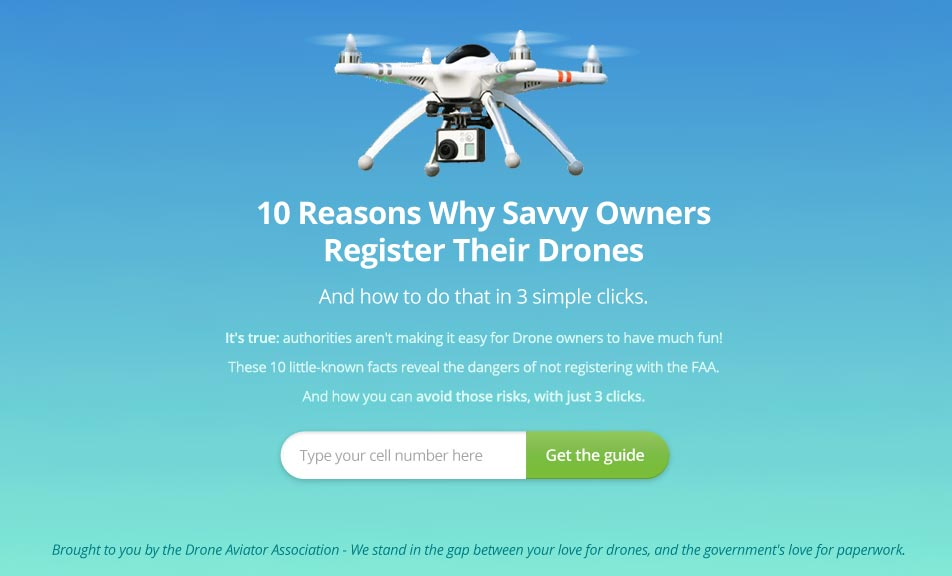
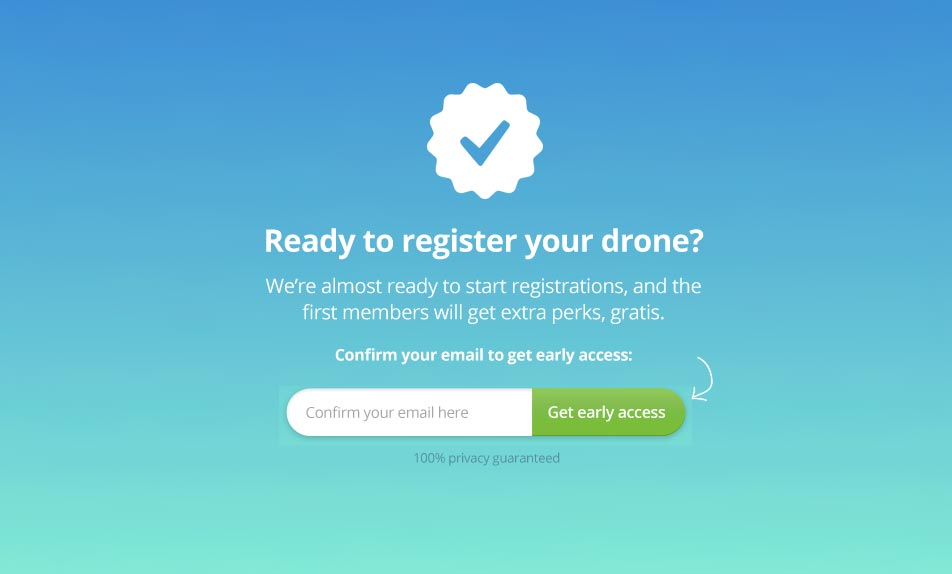
Added Done and Registration success pages

Changed region(s): [[0.2437, 0.0296, 0.7616, 0.8589], [0.0609, 0.9477, 0.9443, 0.9774]]

diff --git a/droneaviator/css/main.css b/droneaviator/css/main.css
@@ -1,1 +1,1 @@
-/*! normalize.css v3.0.1 | MIT License | git.io/normalize */html{font-family:sans-serif;-ms-text-size-adjust:100%;-webkit-text-size-adjust:100%}body{margin:0}article,aside,details,figcaption,figure,footer,header,hgroup,main,nav,section,summary{display:block}audio,canvas,progress,video{display:inline-block;vertical-align:baseline}audio:not([controls]){display:none;height:0}[hidden],template{display:none}a{background:transparent}a:active,a:hover{outline:0}abbr[title]{border-bottom:1px dotted}b,strong{font-weight:bold}dfn{font-style:italic}h1{font-size:2em;margin:.67em 0}mark{background:#ff0;color:#000}small{font-size:80%}sub,sup{font-size:75%;line-height:0;position:relative;vertical-align:baseline}sup{top:-0.5em}sub{bottom:-0.25em}img{border:0}svg:not(:root){overflow:hidden}figure{margin:1em 40px}hr{-moz-box-sizing:content-box;box-sizing:content-box;height:0}pre{overflow:auto}code,kbd,pre,samp{font-family:monospace,monospace;font-size:1em}button,input,optgroup,select,textarea{color:inherit;font:inherit;margin:0}button{overflow:visible}button,select{text-transform:none}button,html input[type="button"],input[type="reset"],input[type="submit"]{-webkit-appearance:button;cursor:pointer}button[disabled],html input[disabled]{cursor:default}button::-moz-focus-inner,input::-moz-focus-inner{border:0;padding:0}input{line-height:normal}input[type="checkbox"],input[type="radio"]{box-sizing:border-box;padding:0;vertical-align:top}input[type="number"]::-webkit-inner-spin-button,input[type="number"]::-webkit-outer-spin-button{height:auto}input[type="search"]{-webkit-appearance:textfield;-moz-box-sizing:content-box;-webkit-box-sizing:content-box;box-sizing:content-box}input[type="search"]::-webkit-search-cancel-button,input[type="search"]::-webkit-search-decoration{-webkit-appearance:none}fieldset{border:1px solid #c0c0c0;margin:0 2px;padding:.35em .625em .75em}legend{border:0;padding:0}textarea{overflow:auto}optgroup{font-weight:bold}table{border-collapse:collapse;border-spacing:0}td,th{padding:0}html{box-sizing:border-box}*,*::after,*::before{box-sizing:inherit}button,input[type="button"],input[type="reset"],input[type="submit"]{appearance:none;background-color:#414141;border:0;border-radius:3px;color:#fff;cursor:pointer;display:inline-block;font-family:"Open Sans",sans-serif;font-size:1em;-webkit-font-smoothing:antialiased;font-weight:600;line-height:1;padding:.75em 1.5em;text-decoration:none;transition:background-color 150ms ease;user-select:none;vertical-align:middle;white-space:nowrap}button:hover,button:focus,input[type="button"]:hover,input[type="button"]:focus,input[type="reset"]:hover,input[type="reset"]:focus,input[type="submit"]:hover,input[type="submit"]:focus{background-color:#343434;color:#fff}button:disabled,input[type="button"]:disabled,input[type="reset"]:disabled,input[type="submit"]:disabled{cursor:not-allowed;opacity:0.5}button:disabled:hover,input[type="button"]:disabled:hover,input[type="reset"]:disabled:hover,input[type="submit"]:disabled:hover{background-color:#414141}.button{border-radius:50px;padding:.5em 1.5em;min-width:75px;display:inline-block;line-height:1;text-align:center;margin-bottom:.75em;margin-top:.5em;color:#fff;font-weight:600;text-decoration:none;white-space:nowrap}.buttons-textual .button{padding:.85em 1.5em}.button.button-half{float:left;display:block;margin-right:2.35765%;width:48.82117%}.button.button-half:last-child{margin-right:0}.button.button-half:nth-child(2n){margin-right:0}.button.button-full{width:100%}.button-mobile{display:inline-block;padding:1em 1.5em 1em 4em;border-radius:100px;color:white;font-size:.8em;text-decoration:none;background:-moz-linear-gradient(top, rgba(0,117,173,0.85) 0%, rgba(0,127,173,0.5) 100%);background:-webkit-linear-gradient(top, rgba(0,117,173,0.85) 0%, rgba(0,127,173,0.5) 100%);background:linear-gradient(to bottom, rgba(0,117,173,0.85) 0%, rgba(0,127,173,0.5) 100%);filter:progid:DXImageTransform.Microsoft.gradient( startColorstr='#d90075ad', endColorstr='#80007fad',GradientType=0 );background-blend-mode:overlay;position:relative;box-shadow:0 1px 5px rgba(0,0,0,0.2)}@media screen and (max-width: 320px){.button-mobile{font-size:.7em}}.button-mobile:before{content:url(../images/phone.png);padding:1em 1.5em;position:absolute;left:0;top:0;width:3.5em;height:100%;display:block;border-radius:50px 0 0 50px}fieldset{background-color:transparent;border:0;margin:0;padding:0}legend{font-weight:600;margin-bottom:.375em;padding:0}label{display:block;font-weight:600;margin-bottom:.375em}input,select,textarea{display:block;font-family:"Open Sans",sans-serif;font-size:1em}input[type="color"],input[type="date"],input[type="datetime"],input[type="datetime-local"],input[type="email"],input[type="month"],input[type="number"],input[type="password"],input[type="search"],input[type="tel"],input[type="text"],input[type="time"],input[type="url"],input[type="week"],input:not([type]),textarea,select[multiple]{background-color:#fff;border:1px solid #ddd;border-radius:3px;box-shadow:inset 0 1px 3px rgba(0,0,0,0.06);box-sizing:border-box;margin-bottom:.75em;padding:.5em;transition:border-color 150ms ease;width:100%}input[type="color"]:hover,input[type="date"]:hover,input[type="datetime"]:hover,input[type="datetime-local"]:hover,input[type="email"]:hover,input[type="month"]:hover,input[type="number"]:hover,input[type="password"]:hover,input[type="search"]:hover,input[type="tel"]:hover,input[type="text"]:hover,input[type="time"]:hover,input[type="url"]:hover,input[type="week"]:hover,input:not([type]):hover,textarea:hover,select[multiple]:hover{border-color:#b1b1b1}input[type="color"]:focus,input[type="date"]:focus,input[type="datetime"]:focus,input[type="datetime-local"]:focus,input[type="email"]:focus,input[type="month"]:focus,input[type="number"]:focus,input[type="password"]:focus,input[type="search"]:focus,input[type="tel"]:focus,input[type="text"]:focus,input[type="time"]:focus,input[type="url"]:focus,input[type="week"]:focus,input:not([type]):focus,textarea:focus,select[multiple]:focus{border-color:#414141;outline:none}input[type="color"]:disabled,input[type="date"]:disabled,input[type="datetime"]:disabled,input[type="datetime-local"]:disabled,input[type="email"]:disabled,input[type="month"]:disabled,input[type="number"]:disabled,input[type="password"]:disabled,input[type="search"]:disabled,input[type="tel"]:disabled,input[type="text"]:disabled,input[type="time"]:disabled,input[type="url"]:disabled,input[type="week"]:disabled,input:not([type]):disabled,textarea:disabled,select[multiple]:disabled{background-color:#f2f2f2;cursor:not-allowed}input[type="color"]:disabled:hover,input[type="date"]:disabled:hover,input[type="datetime"]:disabled:hover,input[type="datetime-local"]:disabled:hover,input[type="email"]:disabled:hover,input[type="month"]:disabled:hover,input[type="number"]:disabled:hover,input[type="password"]:disabled:hover,input[type="search"]:disabled:hover,input[type="tel"]:disabled:hover,input[type="text"]:disabled:hover,input[type="time"]:disabled:hover,input[type="url"]:disabled:hover,input[type="week"]:disabled:hover,input:not([type]):disabled:hover,textarea:disabled:hover,select[multiple]:disabled:hover{border:1px solid #ddd}input[type="color"]::placeholder,input[type="date"]::placeholder,input[type="datetime"]::placeholder,input[type="datetime-local"]::placeholder,input[type="email"]::placeholder,input[type="month"]::placeholder,input[type="number"]::placeholder,input[type="password"]::placeholder,input[type="search"]::placeholder,input[type="tel"]::placeholder,input[type="text"]::placeholder,input[type="time"]::placeholder,input[type="url"]::placeholder,input[type="week"]::placeholder,input:not([type])::placeholder,textarea::placeholder,select[multiple]::placeholder{color:#999}textarea{resize:vertical}[type="search"]{appearance:none}[type="checkbox"],[type="radio"]{display:inline;margin-right:.375em}[type="file"]{margin-bottom:.75em;width:100%}select{margin-bottom:.75em;max-width:100%;width:auto}.button-candy,.button,.button-mobile:before,.form-desktop+div input#SubmitElement_0_input{background:-moz-linear-gradient(top, #90c85b 0%, #7abd3a 100%);background:-webkit-linear-gradient(top, #90c85b 0%, #7abd3a 100%);background:linear-gradient(to bottom, #90c85b 0%, #7abd3a 100%)}.button-gray,.button.bg-gray{background:-moz-linear-gradient(top, #c7c7c7 0%, #bcbcbc 100%);background:-webkit-linear-gradient(top, #c7c7c7 0%, #bcbcbc 100%);background:linear-gradient(to bottom, #c7c7c7 0%, #bcbcbc 100%)}.form-desktop{margin-top:1.75em}.form-desktop+div{position:relative}.form-desktop+div input#SubmitElement_0_input{position:absolute;width:26% !important;font-size:.9em !important;right:0;top:0;border-radius:0 50px 50px 0 !important;padding:.55em 1.5em;font-weight:bold !important;height:32px !important}.form-desktop+div input#SMSElement_0_input,.form-desktop+div input#EmailElement_0_input{position:absolute;left:0;top:0;width:63% !important;font-size:.9em !important;border-radius:50px 0 0 50px !important;padding:.99em 1.25em !important;border:none !important;max-height:48px;font-weight:normal}.form-desktop+div .body-div{background:transparent !important;width:100% !important}.form-desktop+div .body-div td#SMSElement_0{width:100% !important}.form-desktop+div .body-div .confMessage{display:none}.form-desktop+div .body-div .confMessage span{color:#fff !important}.form-desktop+div .footer-div{display:none}#SMSElement_0_input,#EmailElement_0_input{box-shadow:0 1px 3px rgba(0,0,0,0.25)}#SubmitElement_0_input{box-shadow:0 1px 3px rgba(0,0,0,0.25)}html{box-sizing:border-box}*,*::before,*::after{box-sizing:inherit}ul,ol{margin:0;padding-left:32px;margin:0 0 1.5em}dl{margin:0}dt{font-weight:600;margin:0}dd{margin:0}figure{margin:0}img,picture{margin:0;max-width:100%}table{border-collapse:collapse;margin:.75em 0;table-layout:fixed;width:100%}th{border-bottom:1px solid #a6a6a6;font-weight:600;padding:.75em 0;text-align:left}td{border-bottom:1px solid #ddd;padding:.75em 0}tr,td,th{vertical-align:middle}body{color:#414141;font-family:"Open Sans",sans-serif;font-size:1em;line-height:1.5}h1,h2,h3,h4,h5,h6{font-family:"Open Sans",sans-serif;font-size:1.333em;line-height:1.2;margin:0 0 .75em}h1{font-size:1.15em}@media screen and (min-width: 600px){h1{font-size:1.95em;margin-bottom:.5em}}p{font-size:.95em;line-height:1.35;margin:0 0 .9em}p.push-down{margin:0 0 1.75em}@media screen and (min-width: 600px){p{font-size:1em}}strong{font-weight:600}.txt-thin{font-weight:300;font-size:1.25em;margin-bottom:.8em}.txt-small{font-size:.85em;line-height:2}img.drone{width:300px;max-width:100%;position:absolute;left:0;right:0;margin:4em auto 0;-moz-animation:drone 8s infinite ease;-webkit-animation:drone 8s infinite ease;animation:drone 8s infinite ease}@-moz-keyframes drone{0%{top:0;transform:rotate(2deg)}25%{top:15px;transform:rotate(0deg);left:20px}50%{top:0px;transform:rotate(-2deg)}75%{top:15px;transform:rotate(0deg);left:-20px}100%{top:0px;transform:rotate(2deg)}}@-webkit-keyframes drone{0%{top:0;transform:rotate(2deg)}25%{top:15px;transform:rotate(0deg);left:20px}50%{top:0px;transform:rotate(-2deg)}75%{top:15px;transform:rotate(0deg);left:-20px}100%{top:0px;transform:rotate(2deg)}}@keyframes drone{0%{top:0;transform:rotate(2deg)}25%{top:15px;transform:rotate(0deg);left:20px}50%{top:0px;transform:rotate(-2deg)}75%{top:15px;transform:rotate(0deg);left:-20px}100%{top:0px;transform:rotate(2deg)}}.char-container{position:relative;height:85px;width:85px;margin-top:35px;display:inline-block}.char-container.jarvis-hopin img{position:absolute;top:0;left:0}.char-container.jarvis-hopin .hopin-1{z-index:20;opacity:0;top:-3000px;-webkit-animation:hopin 2s;-moz-animation:hopin 2s;animation:hopin 2s}.char-container.jarvis-hopin .hopin-2{z-index:10;-webkit-animation:hopin2 1s;-moz-animation:hopin2 1s;animation:hopin2 1s}@-webkit-keyframes hopin{0%{top:-3000px}1%{top:0;opacity:1}50%{top:0;opacity:1}51%{top:0;opacity:0}98%{top:0}100%{top:-3000px;opacity:0}}@-moz-keyframes hopin{0%{top:-3000px}1%{top:0;opacity:1}50%{top:0;opacity:1}51%{top:0;opacity:0}98%{top:0}100%{top:-3000px;opacity:0}}@keyframes hopin{0%{top:-3000px}1%{top:0;opacity:1}50%{top:0;opacity:1}51%{top:0;opacity:0}98%{top:0}100%{top:-3000px;opacity:0}}@-webkit-keyframes hopin2{0%{opacity:0}100%{opacity:1}}@-moz-keyframes hopin2{0%{opacity:0}100%{opacity:1}}@keyframes hopin2{0%{opacity:0}100%{opacity:1}}.guide{background:#fff;color:#414141}.header-guide{max-width:1280px;margin-left:auto;margin-right:auto;background:#4298d6;position:relative;padding-bottom:70px}.header-guide::after{clear:both;content:"";display:block}.header-guide .speech-top{width:100%;height:55px;position:absolute;bottom:-1px;left:50%;-webkit-transform:translateX(-50%);transform:translateX(-50%)}.content-guide{text-align:left}.blackhat{background:#000 url(../../images/blackhat-background-tight.jpg) no-repeat center top -52px}.blackhat .logotype{margin-top:40px;margin-bottom:37px}.blackhat h1{font-size:1.7em;letter-spacing:-0.5px;line-height:1.25;margin-bottom:0.55em}.blackhat p{font-size:.95em;line-height:1.5}.blackhat .form-desktop{margin-top:1.5em}.blackhat .txt-small{font-size:0.8em;letter-spacing:0.05px;line-height:1.7;padding:0.6em 1.5em}@media screen and (min-width: 600px){.blackhat .txt-small{padding:0.6em 3.5em}}.blackhat .page-container{max-width:600px}html{min-height:100%}body{text-align:center;color:#fff;font-family:'Open Sans', sans-serif;background:#3c8ed7;background:-moz-linear-gradient(top, #3c8ed7 0%, #83e8d6 100%);background:-webkit-linear-gradient(top, #3c8ed7 0%, #83e8d6 100%);background:linear-gradient(to bottom, #3c8ed7 0%, #83e8d6 100%);filter:progid:DXImageTransform.Microsoft.gradient( startColorstr='#3c8ed7', endColorstr='#83e8d6',GradientType=0 );background-repeat:no-repeat}a{color:#007e84}a:hover{text-decoration:none}.page-container{max-width:1280px;margin-left:auto;margin-right:auto;padding:0 1.5em}.page-container::after{clear:both;content:"";display:block}.content-guide .page-container{padding:1em 1.5em}.guide .page-container{max-width:37.5em}.drone-container{position:relative;height:230px}@media screen and (max-width: 980px){.drone-container{margin-top:0}}.footer{color:#007e84;font-size:.75em;margin-top:3.75em}@media screen and (min-width: 600px){.footer{margin-top:3em}.footer p{font-size:1.1em}}.footer.footer-outlined{border:1px solid rgba(0,126,132,0.5);border-radius:7px;background:rgba(0,126,132,0.15);max-width:650px;margin-bottom:3em;padding:.75em 1.5em 0}.txt-right{text-align:right}.txt-blue{color:#4298d6}.caps{text-transform:uppercase}@media screen and (min-width: 600px){.break-mobile{display:none}}.block-mobile{display:block}@media screen and (min-width: 600px){.block-mobile{display:none}}.block-desktop{display:none}@media screen and (min-width: 600px){.block-desktop{display:block}}.block-desktop.form-desktop+div{display:none}@media screen and (min-width: 600px){.block-desktop.form-desktop+div{display:block;max-width:390px;margin:0 auto}}.form-blackhat+div{display:block;max-width:390px;margin:0 auto}.highlight{background:#fff}.highlighter-rouge .highlight{background:#eef}.highlight .c{color:#998;font-style:italic}.highlight .err{color:#a61717;background-color:#e3d2d2}.highlight .k{font-weight:bold}.highlight .o{font-weight:bold}.highlight .cm{color:#998;font-style:italic}.highlight .cp{color:#999;font-weight:bold}.highlight .c1{color:#998;font-style:italic}.highlight .cs{color:#999;font-weight:bold;font-style:italic}.highlight .gd{color:#000;background-color:#fdd}.highlight .gd .x{color:#000;background-color:#faa}.highlight .ge{font-style:italic}.highlight .gr{color:#a00}.highlight .gh{color:#999}.highlight .gi{color:#000;background-color:#dfd}.highlight .gi .x{color:#000;background-color:#afa}.highlight .go{color:#888}.highlight .gp{color:#555}.highlight .gs{font-weight:bold}.highlight .gu{color:#aaa}.highlight .gt{color:#a00}.highlight .kc{font-weight:bold}.highlight .kd{font-weight:bold}.highlight .kp{font-weight:bold}.highlight .kr{font-weight:bold}.highlight .kt{color:#458;font-weight:bold}.highlight .m{color:#099}.highlight .s{color:#d14}.highlight .na{color:teal}.highlight .nb{color:#0086B3}.highlight .nc{color:#458;font-weight:bold}.highlight .no{color:teal}.highlight .ni{color:purple}.highlight .ne{color:#900;font-weight:bold}.highlight .nf{color:#900;font-weight:bold}.highlight .nn{color:#555}.highlight .nt{color:navy}.highlight .nv{color:teal}.highlight .ow{font-weight:bold}.highlight .w{color:#bbb}.highlight .mf{color:#099}.highlight .mh{color:#099}.highlight .mi{color:#099}.highlight .mo{color:#099}.highlight .sb{color:#d14}.highlight .sc{color:#d14}.highlight .sd{color:#d14}.highlight .s2{color:#d14}.highlight .se{color:#d14}.highlight .sh{color:#d14}.highlight .si{color:#d14}.highlight .sx{color:#d14}.highlight .sr{color:#009926}.highlight .s1{color:#d14}.highlight .ss{color:#990073}.highlight .bp{color:#999}.highlight .vc{color:teal}.highlight .vg{color:teal}.highlight .vi{color:teal}.highlight .il{color:#099}
+/*! normalize.css v3.0.1 | MIT License | git.io/normalize */html{font-family:sans-serif;-ms-text-size-adjust:100%;-webkit-text-size-adjust:100%}body{margin:0}article,aside,details,figcaption,figure,footer,header,hgroup,main,nav,section,summary{display:block}audio,canvas,progress,video{display:inline-block;vertical-align:baseline}audio:not([controls]){display:none;height:0}[hidden],template{display:none}a{background:transparent}a:active,a:hover{outline:0}abbr[title]{border-bottom:1px dotted}b,strong{font-weight:bold}dfn{font-style:italic}h1{font-size:2em;margin:.67em 0}mark{background:#ff0;color:#000}small{font-size:80%}sub,sup{font-size:75%;line-height:0;position:relative;vertical-align:baseline}sup{top:-0.5em}sub{bottom:-0.25em}img{border:0}svg:not(:root){overflow:hidden}figure{margin:1em 40px}hr{-moz-box-sizing:content-box;box-sizing:content-box;height:0}pre{overflow:auto}code,kbd,pre,samp{font-family:monospace,monospace;font-size:1em}button,input,optgroup,select,textarea{color:inherit;font:inherit;margin:0}button{overflow:visible}button,select{text-transform:none}button,html input[type="button"],input[type="reset"],input[type="submit"]{-webkit-appearance:button;cursor:pointer}button[disabled],html input[disabled]{cursor:default}button::-moz-focus-inner,input::-moz-focus-inner{border:0;padding:0}input{line-height:normal}input[type="checkbox"],input[type="radio"]{box-sizing:border-box;padding:0;vertical-align:top}input[type="number"]::-webkit-inner-spin-button,input[type="number"]::-webkit-outer-spin-button{height:auto}input[type="search"]{-webkit-appearance:textfield;-moz-box-sizing:content-box;-webkit-box-sizing:content-box;box-sizing:content-box}input[type="search"]::-webkit-search-cancel-button,input[type="search"]::-webkit-search-decoration{-webkit-appearance:none}fieldset{border:1px solid #c0c0c0;margin:0 2px;padding:.35em .625em .75em}legend{border:0;padding:0}textarea{overflow:auto}optgroup{font-weight:bold}table{border-collapse:collapse;border-spacing:0}td,th{padding:0}html{box-sizing:border-box}*,*::after,*::before{box-sizing:inherit}button,input[type="button"],input[type="reset"],input[type="submit"]{appearance:none;background-color:#414141;border:0;border-radius:3px;color:#fff;cursor:pointer;display:inline-block;font-family:"Open Sans",sans-serif;font-size:1em;-webkit-font-smoothing:antialiased;font-weight:600;line-height:1;padding:.75em 1.5em;text-decoration:none;transition:background-color 150ms ease;user-select:none;vertical-align:middle;white-space:nowrap}button:hover,button:focus,input[type="button"]:hover,input[type="button"]:focus,input[type="reset"]:hover,input[type="reset"]:focus,input[type="submit"]:hover,input[type="submit"]:focus{background-color:#343434;color:#fff}button:disabled,input[type="button"]:disabled,input[type="reset"]:disabled,input[type="submit"]:disabled{cursor:not-allowed;opacity:0.5}button:disabled:hover,input[type="button"]:disabled:hover,input[type="reset"]:disabled:hover,input[type="submit"]:disabled:hover{background-color:#414141}.button{border-radius:50px;padding:.5em 1.5em;min-width:75px;display:inline-block;line-height:1;text-align:center;margin-bottom:.75em;margin-top:.5em;color:#fff;font-weight:600;text-decoration:none;white-space:nowrap}.buttons-textual .button{padding:.85em 1.5em}.button.button-half{float:left;display:block;margin-right:2.35765%;width:48.82117%}.button.button-half:last-child{margin-right:0}.button.button-half:nth-child(2n){margin-right:0}.button.button-full{width:100%}.button-mobile{display:inline-block;padding:1em 1.5em 1em 4em;border-radius:100px;color:white;font-size:.8em;text-decoration:none;background:-moz-linear-gradient(top, rgba(0,117,173,0.85) 0%, rgba(0,127,173,0.5) 100%);background:-webkit-linear-gradient(top, rgba(0,117,173,0.85) 0%, rgba(0,127,173,0.5) 100%);background:linear-gradient(to bottom, rgba(0,117,173,0.85) 0%, rgba(0,127,173,0.5) 100%);filter:progid:DXImageTransform.Microsoft.gradient( startColorstr='#d90075ad', endColorstr='#80007fad',GradientType=0 );background-blend-mode:overlay;position:relative;box-shadow:0 1px 5px rgba(0,0,0,0.2)}@media screen and (max-width: 320px){.button-mobile{font-size:.7em}}.button-mobile:before{content:url(../images/phone.png);padding:1em 1.5em;position:absolute;left:0;top:0;width:3.5em;height:100%;display:block;border-radius:50px 0 0 50px}fieldset{background-color:transparent;border:0;margin:0;padding:0}legend{font-weight:600;margin-bottom:.375em;padding:0}label{display:block;font-weight:600;margin-bottom:.375em}input,select,textarea{display:block;font-family:"Open Sans",sans-serif;font-size:1em}input[type="color"],input[type="date"],input[type="datetime"],input[type="datetime-local"],input[type="email"],input[type="month"],input[type="number"],input[type="password"],input[type="search"],input[type="tel"],input[type="text"],input[type="time"],input[type="url"],input[type="week"],input:not([type]),textarea,select[multiple]{background-color:#fff;border:1px solid #ddd;border-radius:3px;box-shadow:inset 0 1px 3px rgba(0,0,0,0.06);box-sizing:border-box;margin-bottom:.75em;padding:.5em;transition:border-color 150ms ease;width:100%}input[type="color"]:hover,input[type="date"]:hover,input[type="datetime"]:hover,input[type="datetime-local"]:hover,input[type="email"]:hover,input[type="month"]:hover,input[type="number"]:hover,input[type="password"]:hover,input[type="search"]:hover,input[type="tel"]:hover,input[type="text"]:hover,input[type="time"]:hover,input[type="url"]:hover,input[type="week"]:hover,input:not([type]):hover,textarea:hover,select[multiple]:hover{border-color:#b1b1b1}input[type="color"]:focus,input[type="date"]:focus,input[type="datetime"]:focus,input[type="datetime-local"]:focus,input[type="email"]:focus,input[type="month"]:focus,input[type="number"]:focus,input[type="password"]:focus,input[type="search"]:focus,input[type="tel"]:focus,input[type="text"]:focus,input[type="time"]:focus,input[type="url"]:focus,input[type="week"]:focus,input:not([type]):focus,textarea:focus,select[multiple]:focus{border-color:#414141;outline:none}input[type="color"]:disabled,input[type="date"]:disabled,input[type="datetime"]:disabled,input[type="datetime-local"]:disabled,input[type="email"]:disabled,input[type="month"]:disabled,input[type="number"]:disabled,input[type="password"]:disabled,input[type="search"]:disabled,input[type="tel"]:disabled,input[type="text"]:disabled,input[type="time"]:disabled,input[type="url"]:disabled,input[type="week"]:disabled,input:not([type]):disabled,textarea:disabled,select[multiple]:disabled{background-color:#f2f2f2;cursor:not-allowed}input[type="color"]:disabled:hover,input[type="date"]:disabled:hover,input[type="datetime"]:disabled:hover,input[type="datetime-local"]:disabled:hover,input[type="email"]:disabled:hover,input[type="month"]:disabled:hover,input[type="number"]:disabled:hover,input[type="password"]:disabled:hover,input[type="search"]:disabled:hover,input[type="tel"]:disabled:hover,input[type="text"]:disabled:hover,input[type="time"]:disabled:hover,input[type="url"]:disabled:hover,input[type="week"]:disabled:hover,input:not([type]):disabled:hover,textarea:disabled:hover,select[multiple]:disabled:hover{border:1px solid #ddd}input[type="color"]::placeholder,input[type="date"]::placeholder,input[type="datetime"]::placeholder,input[type="datetime-local"]::placeholder,input[type="email"]::placeholder,input[type="month"]::placeholder,input[type="number"]::placeholder,input[type="password"]::placeholder,input[type="search"]::placeholder,input[type="tel"]::placeholder,input[type="text"]::placeholder,input[type="time"]::placeholder,input[type="url"]::placeholder,input[type="week"]::placeholder,input:not([type])::placeholder,textarea::placeholder,select[multiple]::placeholder{color:#999}textarea{resize:vertical}[type="search"]{appearance:none}[type="checkbox"],[type="radio"]{display:inline;margin-right:.375em}[type="file"]{margin-bottom:.75em;width:100%}select{margin-bottom:.75em;max-width:100%;width:auto}.button-candy,.button,.button-mobile:before,.form-desktop+div input#SubmitElement_0_input{background:-moz-linear-gradient(top, #90c85b 0%, #7abd3a 100%);background:-webkit-linear-gradient(top, #90c85b 0%, #7abd3a 100%);background:linear-gradient(to bottom, #90c85b 0%, #7abd3a 100%)}.button-gray,.button.bg-gray{background:-moz-linear-gradient(top, #c7c7c7 0%, #bcbcbc 100%);background:-webkit-linear-gradient(top, #c7c7c7 0%, #bcbcbc 100%);background:linear-gradient(to bottom, #c7c7c7 0%, #bcbcbc 100%)}.form-desktop{margin-top:1.75em}.done .form-desktop{margin-top:1.5em}.form-desktop+div{position:relative}.form-desktop+div input#SubmitElement_0_input{position:absolute;width:26% !important;font-size:.9em !important;right:0;top:0;border-radius:0 50px 50px 0 !important;padding:.55em 1.5em;font-weight:bold !important;height:32px !important}.form-desktop+div input#SMSElement_0_input,.form-desktop+div input#EmailElement_0_input{position:absolute;left:0;top:0;width:63% !important;font-size:.9em !important;border-radius:50px 0 0 50px !important;padding:.99em 1.25em !important;border:none !important;max-height:48px;font-weight:normal}.form-desktop+div .body-div{background:transparent !important;width:100% !important}.form-desktop+div .body-div td#SMSElement_0{width:100% !important}.form-desktop+div .body-div .confMessage{display:none}.form-desktop+div .body-div .confMessage span{color:#fff !important}.form-desktop+div .footer-div{display:none}#SMSElement_0_input,#EmailElement_0_input{box-shadow:0 1px 3px rgba(0,0,0,0.25)}#SubmitElement_0_input{box-shadow:0 1px 3px rgba(0,0,0,0.25)}#scPortableForm-118293+p:not(.txt-teal){display:none}html{box-sizing:border-box}*,*::before,*::after{box-sizing:inherit}ul,ol{margin:0;padding-left:32px;margin:0 0 1.5em}dl{margin:0}dt{font-weight:600;margin:0}dd{margin:0}figure{margin:0}img,picture{margin:0;max-width:100%}table{border-collapse:collapse;margin:.75em 0;table-layout:fixed;width:100%}th{border-bottom:1px solid #a6a6a6;font-weight:600;padding:.75em 0;text-align:left}td{border-bottom:1px solid #ddd;padding:.75em 0}tr,td,th{vertical-align:middle}body{color:#414141;font-family:"Open Sans",sans-serif;font-size:1em;line-height:1.5}h1,h2,h3,h4,h5,h6{font-family:"Open Sans",sans-serif;font-size:1.333em;line-height:1.2;margin:0 0 .75em}h1{font-size:1.15em}@media screen and (min-width: 600px){h1{font-size:1.95em;margin-bottom:.5em}}.done h1{letter-spacing:-1px;margin-bottom:.35em}p{font-size:.95em;line-height:1.35;margin:0 0 .9em}p.push-down{margin:0 0 1.75em}@media screen and (min-width: 600px){p{font-size:1em}}strong{font-weight:600}.txt-thin{font-weight:300;font-size:1.25em;margin-bottom:.8em}.done .txt-thin{letter-spacing:-.2px}.txt-small{font-size:.85em;line-height:2}img.drone{width:300px;max-width:100%;position:absolute;left:0;right:0;margin:4em auto 0;-moz-animation:drone 8s infinite ease;-webkit-animation:drone 8s infinite ease;animation:drone 8s infinite ease}@-moz-keyframes drone{0%{top:0;transform:rotate(2deg)}25%{top:15px;transform:rotate(0deg);left:20px}50%{top:0px;transform:rotate(-2deg)}75%{top:15px;transform:rotate(0deg);left:-20px}100%{top:0px;transform:rotate(2deg)}}@-webkit-keyframes drone{0%{top:0;transform:rotate(2deg)}25%{top:15px;transform:rotate(0deg);left:20px}50%{top:0px;transform:rotate(-2deg)}75%{top:15px;transform:rotate(0deg);left:-20px}100%{top:0px;transform:rotate(2deg)}}@keyframes drone{0%{top:0;transform:rotate(2deg)}25%{top:15px;transform:rotate(0deg);left:20px}50%{top:0px;transform:rotate(-2deg)}75%{top:15px;transform:rotate(0deg);left:-20px}100%{top:0px;transform:rotate(2deg)}}.char-container{position:relative;height:85px;width:85px;margin-top:35px;display:inline-block}.char-container.jarvis-hopin img{position:absolute;top:0;left:0}.char-container.jarvis-hopin .hopin-1{z-index:20;opacity:0;top:-3000px;-webkit-animation:hopin 2s;-moz-animation:hopin 2s;animation:hopin 2s}.char-container.jarvis-hopin .hopin-2{z-index:10;-webkit-animation:hopin2 1s;-moz-animation:hopin2 1s;animation:hopin2 1s}@-webkit-keyframes hopin{0%{top:-3000px}1%{top:0;opacity:1}50%{top:0;opacity:1}51%{top:0;opacity:0}98%{top:0}100%{top:-3000px;opacity:0}}@-moz-keyframes hopin{0%{top:-3000px}1%{top:0;opacity:1}50%{top:0;opacity:1}51%{top:0;opacity:0}98%{top:0}100%{top:-3000px;opacity:0}}@keyframes hopin{0%{top:-3000px}1%{top:0;opacity:1}50%{top:0;opacity:1}51%{top:0;opacity:0}98%{top:0}100%{top:-3000px;opacity:0}}@-webkit-keyframes hopin2{0%{opacity:0}100%{opacity:1}}@-moz-keyframes hopin2{0%{opacity:0}100%{opacity:1}}@keyframes hopin2{0%{opacity:0}100%{opacity:1}}.guide{background:#fff;color:#414141}.header-guide{max-width:1280px;margin-left:auto;margin-right:auto;background:#4298d6;position:relative;padding-bottom:70px}.header-guide::after{clear:both;content:"";display:block}.header-guide .speech-top{width:100%;height:55px;position:absolute;bottom:-1px;left:50%;-webkit-transform:translateX(-50%);transform:translateX(-50%)}.content-guide{text-align:left}.blackhat{background:#000 url(../../images/blackhat-background-tight.jpg) no-repeat center top -52px}.blackhat .logotype{margin-top:40px;margin-bottom:37px}.blackhat h1{font-size:1.7em;letter-spacing:-0.5px;line-height:1.25;margin-bottom:0.55em}.blackhat p{font-size:.95em;line-height:1.5}.blackhat .form-desktop{margin-top:1.5em}.blackhat .txt-small{font-size:0.8em;letter-spacing:0.05px;line-height:1.7;padding:0.6em 1.5em}@media screen and (min-width: 600px){.blackhat .txt-small{padding:0.6em 3.5em}}.blackhat .page-container{max-width:600px}html{min-height:100%}body{text-align:center;color:#fff;font-family:'Open Sans', sans-serif;background:#3c8ed7;background:-moz-linear-gradient(top, #3c8ed7 0%, #83e8d6 100%);background:-webkit-linear-gradient(top, #3c8ed7 0%, #83e8d6 100%);background:linear-gradient(to bottom, #3c8ed7 0%, #83e8d6 100%);filter:progid:DXImageTransform.Microsoft.gradient( startColorstr='#3c8ed7', endColorstr='#83e8d6',GradientType=0 );background-repeat:no-repeat}a{color:#007e84}a:hover{text-decoration:none}.page-container{max-width:1280px;margin-left:auto;margin-right:auto;padding:0 1.5em}.page-container::after{clear:both;content:"";display:block}.content-guide .page-container{padding:1em 1.5em}.guide .page-container{max-width:37.5em}.drone-container{position:relative;height:230px}@media screen and (max-width: 980px){.drone-container{margin-top:0}}.head-img-container .img-done{margin-bottom:15px;margin-top:80px;max-width:120px}.footer{color:#007e84;font-size:.75em;margin-top:3.75em}@media screen and (min-width: 600px){.footer{margin-top:3em}.footer p{font-size:1.1em}}.footer.footer-outlined{border:1px solid rgba(0,126,132,0.5);border-radius:7px;background:rgba(0,126,132,0.15);max-width:650px;margin-bottom:3em;padding:.75em 1.5em 0}.txt-right{text-align:right}.txt-blue{color:#4298d6}.txt-teal{color:#007e84}.caps{text-transform:uppercase}@media screen and (min-width: 600px){.break-mobile{display:none}}@media screen and (max-width: 600px){.break-desktop{display:none}}.block-mobile{display:block}@media screen and (min-width: 600px){.block-mobile{display:none}}.block-desktop{display:none}@media screen and (min-width: 600px){.block-desktop{display:block}}.block-desktop.form-desktop+div{display:none}@media screen and (min-width: 600px){.block-desktop.form-desktop+div{display:block;max-width:390px;margin:0 auto}}.form-blackhat+div{display:block;max-width:390px;margin:0 auto}.done .txt-teal.txt-small{margin-top:-1em;font-size:.8em}.highlight{background:#fff}.highlighter-rouge .highlight{background:#eef}.highlight .c{color:#998;font-style:italic}.highlight .err{color:#a61717;background-color:#e3d2d2}.highlight .k{font-weight:bold}.highlight .o{font-weight:bold}.highlight .cm{color:#998;font-style:italic}.highlight .cp{color:#999;font-weight:bold}.highlight .c1{color:#998;font-style:italic}.highlight .cs{color:#999;font-weight:bold;font-style:italic}.highlight .gd{color:#000;background-color:#fdd}.highlight .gd .x{color:#000;background-color:#faa}.highlight .ge{font-style:italic}.highlight .gr{color:#a00}.highlight .gh{color:#999}.highlight .gi{color:#000;background-color:#dfd}.highlight .gi .x{color:#000;background-color:#afa}.highlight .go{color:#888}.highlight .gp{color:#555}.highlight .gs{font-weight:bold}.highlight .gu{color:#aaa}.highlight .gt{color:#a00}.highlight .kc{font-weight:bold}.highlight .kd{font-weight:bold}.highlight .kp{font-weight:bold}.highlight .kr{font-weight:bold}.highlight .kt{color:#458;font-weight:bold}.highlight .m{color:#099}.highlight .s{color:#d14}.highlight .na{color:teal}.highlight .nb{color:#0086B3}.highlight .nc{color:#458;font-weight:bold}.highlight .no{color:teal}.highlight .ni{color:purple}.highlight .ne{color:#900;font-weight:bold}.highlight .nf{color:#900;font-weight:bold}.highlight .nn{color:#555}.highlight .nt{color:navy}.highlight .nv{color:teal}.highlight .ow{font-weight:bold}.highlight .w{color:#bbb}.highlight .mf{color:#099}.highlight .mh{color:#099}.highlight .mi{color:#099}.highlight .mo{color:#099}.highlight .sb{color:#d14}.highlight .sc{color:#d14}.highlight .sd{color:#d14}.highlight .s2{color:#d14}.highlight .se{color:#d14}.highlight .sh{color:#d14}.highlight .si{color:#d14}.highlight .sx{color:#d14}.highlight .sr{color:#009926}.highlight .s1{color:#d14}.highlight .ss{color:#990073}.highlight .bp{color:#999}.highlight .vc{color:teal}.highlight .vg{color:teal}.highlight .vi{color:teal}.highlight .il{color:#099}

diff --git a/droneaviator/done/index.html b/droneaviator/done/index.html
@@ -1,0 +1,62 @@
+<!DOCTYPE html>
+<html>
+
+  <head>
+  <meta charset="utf-8">
+  <meta http-equiv="X-UA-Compatible" content="IE=edge">
+  <meta name="viewport" content="width=device-width, initial-scale=1">
+
+  <title>Drone Aviator</title>
+  <meta name="description" content="">
+  <link href='https://fonts.googleapis.com/css?family=Open+Sans:300,400,600,700' rel='stylesheet' type='text/css'>
+  <link rel="stylesheet" href="/css/main.css">
+  <link rel="canonical" href="//done/">
+  <link rel="alternate" type="application/rss+xml" title="Drone Aviator" href="//feed.xml">
+  
+  <script src="/js/jquery-2.x-git.min.js"></script>
+  <script>
+    (function(h,o,t,j,a,r){
+        h.hj=h.hj||function(){(h.hj.q=h.hj.q||[]).push(arguments)};
+        h._hjSettings={hjid:253020,hjsv:5};
+        a=o.getElementsByTagName('head')[0];
+        r=o.createElement('script');r.async=1;
+        r.src=t+h._hjSettings.hjid+j+h._hjSettings.hjsv;
+        a.appendChild(r);
+    })(window,document,'//static.hotjar.com/c/hotjar-','.js?sv=');
+  </script>
+  <script>
+    (function(i,s,o,g,r,a,m){i['GoogleAnalyticsObject']=r;i[r]=i[r]||function(){
+    (i[r].q=i[r].q||[]).push(arguments)},i[r].l=1*new Date();a=s.createElement(o),
+    m=s.getElementsByTagName(o)[0];a.async=1;a.src=g;m.parentNode.insertBefore(a,m)
+    })(window,document,'script','https://www.google-analytics.com/analytics.js','ga');
+    ga('create', 'UA-81033676-1', 'auto');
+    ga('send', 'pageview');
+  </script>
+</head>
+
+
+  <body class="home done">
+
+    <div class="page-container">
+ <div class="head-img-container">
+   <img src="/images/done-seal.png" alt="DAA confirmation" class="img-done">
+ </div>
+  
+  <h1>Ready to register your drone?</h1>
+  <p class="txt-thin">We're almost ready to start registrations, and the <br class="break-desktop">first members will get extra perks, gratis.</p>
+  <p>
+    <strong>Confirm your email to get early access:</strong>
+  </p>
+  <p class="form-blackhat form-desktop">
+    <script type="text/javascript" src="https://app.fairheadcreative.com/?q=forms/getForm&i=118293&type=portable"></script>
+  </p>
+  <p class="txt-teal txt-small">
+    100% privacy guaranteed.
+  </p>
+</div>
+
+
+  <script src="/js/script.js"></script>
+  </body>
+
+</html>

diff --git a/droneaviator/registration-ty/index.html b/droneaviator/registration-ty/index.html
@@ -1,0 +1,53 @@
+<!DOCTYPE html>
+<html>
+
+  <head>
+  <meta charset="utf-8">
+  <meta http-equiv="X-UA-Compatible" content="IE=edge">
+  <meta name="viewport" content="width=device-width, initial-scale=1">
+
+  <title>Drone Aviator</title>
+  <meta name="description" content="">
+  <link href='https://fonts.googleapis.com/css?family=Open+Sans:300,400,600,700' rel='stylesheet' type='text/css'>
+  <link rel="stylesheet" href="/css/main.css">
+  <link rel="canonical" href="//registration-ty/">
+  <link rel="alternate" type="application/rss+xml" title="Drone Aviator" href="//feed.xml">
+  
+  <script src="/js/jquery-2.x-git.min.js"></script>
+  <script>
+    (function(h,o,t,j,a,r){
+        h.hj=h.hj||function(){(h.hj.q=h.hj.q||[]).push(arguments)};
+        h._hjSettings={hjid:253020,hjsv:5};
+        a=o.getElementsByTagName('head')[0];
+        r=o.createElement('script');r.async=1;
+        r.src=t+h._hjSettings.hjid+j+h._hjSettings.hjsv;
+        a.appendChild(r);
+    })(window,document,'//static.hotjar.com/c/hotjar-','.js?sv=');
+  </script>
+  <script>
+    (function(i,s,o,g,r,a,m){i['GoogleAnalyticsObject']=r;i[r]=i[r]||function(){
+    (i[r].q=i[r].q||[]).push(arguments)},i[r].l=1*new Date();a=s.createElement(o),
+    m=s.getElementsByTagName(o)[0];a.async=1;a.src=g;m.parentNode.insertBefore(a,m)
+    })(window,document,'script','https://www.google-analytics.com/analytics.js','ga');
+    ga('create', 'UA-81033676-1', 'auto');
+    ga('send', 'pageview');
+  </script>
+</head>
+
+
+  <body class="home done">
+
+    <div class="page-container">
+ <div class="head-img-container">
+   <img src="/images/done-seal.png" alt="DAA confirmation" class="img-done">
+ </div>
+  
+  <h1>Success!</h1>
+  <p class="txt-thin">Thanks for registering, your request is being processed.</p>
+</div>
+
+
+  <script src="/js/script.js"></script>
+  </body>
+
+</html>

diff --git a/_sass/layout/_layout.scss b/_sass/layout/_layout.scss
@@ -49,6 +49,14 @@ a {
   }
 }
 
+.head-img-container {
+  .img-done {
+    margin-bottom: 15px;
+    margin-top: 80px;
+    max-width: 120px;
+  }
+}
+
 .footer { 
   color: $teal;
   font-size: $base-font-size*.75;
@@ -77,10 +85,17 @@ a {
 
 .txt-right { text-align: right; }
 .txt-blue { color: $blue; }
+.txt-teal { color: $teal; }
 .caps { text-transform: uppercase; }
 
 .break-mobile {
     @include media ($medium-screen){
+    display: none;
+  }
+}
+
+.break-desktop {
+    @include media (max-width $medium-screen){
     display: none;
   }
 }
@@ -111,8 +126,17 @@ a {
   }
 }
 
+//page-specific
+
 .form-blackhat + div {
-      display: block;
-      max-width: 390px;
-      margin: 0 auto;
+  display: block;
+  max-width: 390px;
+  margin: 0 auto;
+}
+
+.done {
+  .txt-teal.txt-small {
+    margin-top: -1em;
+    font-size: .8em;
   }
+}

diff --git a/done.html b/done.html
@@ -1,0 +1,24 @@
+---
+layout: layout
+title: Drone Aviator
+class: home done
+permalink: /done/
+---
+
+<div class="page-container">
+ <div class="head-img-container">
+   <img src="{{site.baseurl}}images/done-seal.png" alt="DAA confirmation" class="img-done">
+ </div>
+  
+  <h1>Ready to register your drone?</h1>
+  <p class="txt-thin">We're almost ready to start registrations, and the <br class="break-desktop">first members will get extra perks, gratis.</p>
+  <p>
+    <strong>Confirm your email to get early access:</strong>
+  </p>
+  <p class="form-blackhat form-desktop">
+    <script type="text/javascript" src="https://app.fairheadcreative.com/?q=forms/getForm&i=118293&type=portable"></script>
+  </p>
+  <p class="txt-teal txt-small">
+    100% privacy guaranteed.
+  </p>
+</div>

diff --git a/registration-ty.html b/registration-ty.html
@@ -1,0 +1,15 @@
+---
+layout: layout
+title: Drone Aviator
+class: home done
+permalink: /registration-ty/
+---
+
+<div class="page-container">
+ <div class="head-img-container">
+   <img src="{{site.baseurl}}images/done-seal.png" alt="DAA confirmation" class="img-done">
+ </div>
+  
+  <h1>Success!</h1>
+  <p class="txt-thin">Thanks for registering, your request is being processed.</p>
+</div>

diff --git a/_sass/base/_typography.scss b/_sass/base/_typography.scss
@@ -24,6 +24,11 @@ h1 {
     font-size: $base-font-size*1.95;
     margin-bottom: .5em;
   }
+  
+  .done & { 
+    letter-spacing: -1px;
+    margin-bottom: .35em;
+  }
 }
 
 p {
@@ -45,6 +50,8 @@ strong { font-weight: 600; }
   font-weight: 300;
   font-size: 1.25em;
   margin-bottom: .8em;
+  
+  .done & { letter-spacing: -.2px; }
 }
 
 .txt-small {

diff --git a/_sass/base/_forms.scss b/_sass/base/_forms.scss
@@ -101,6 +101,10 @@ select {
 //desktop send sms form
 .form-desktop {
   margin-top: 1.75em;
+  
+  .done & {
+    margin-top: $base-spacing;
+  }
 }
 
 .form-desktop + div {
@@ -162,4 +166,8 @@ select {
 }
 #SubmitElement_0_input {
   box-shadow: 0 1px 3px rgba(0,0,0,.25);
+}
+
+#scPortableForm-118293 + p:not(.txt-teal) {
+  display: none;
 }
